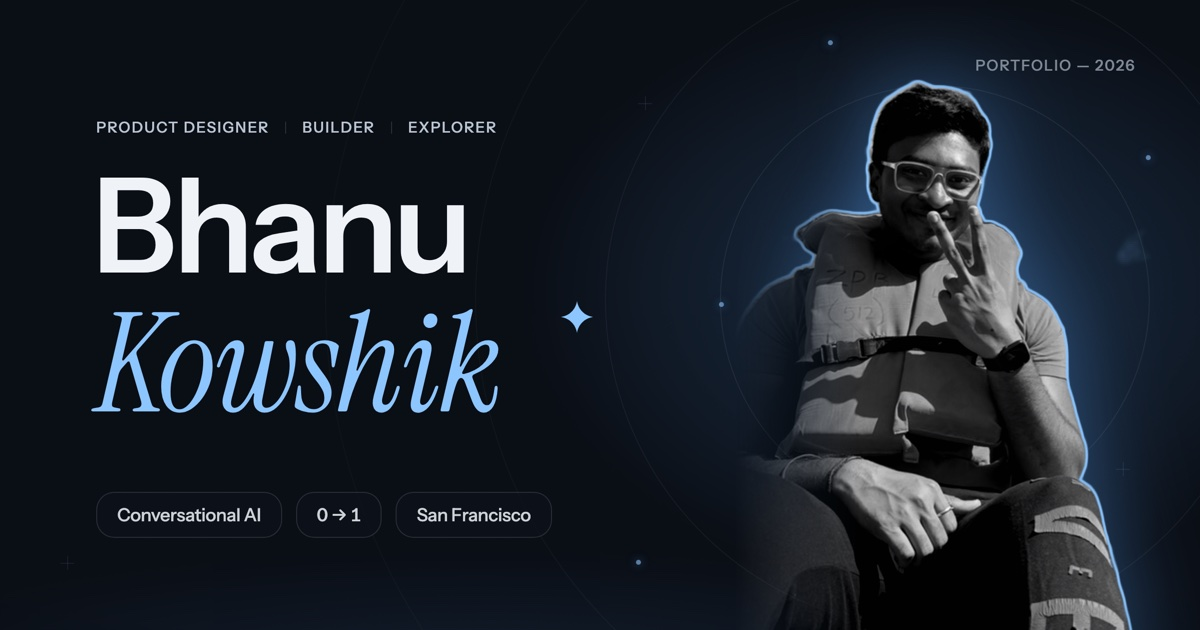
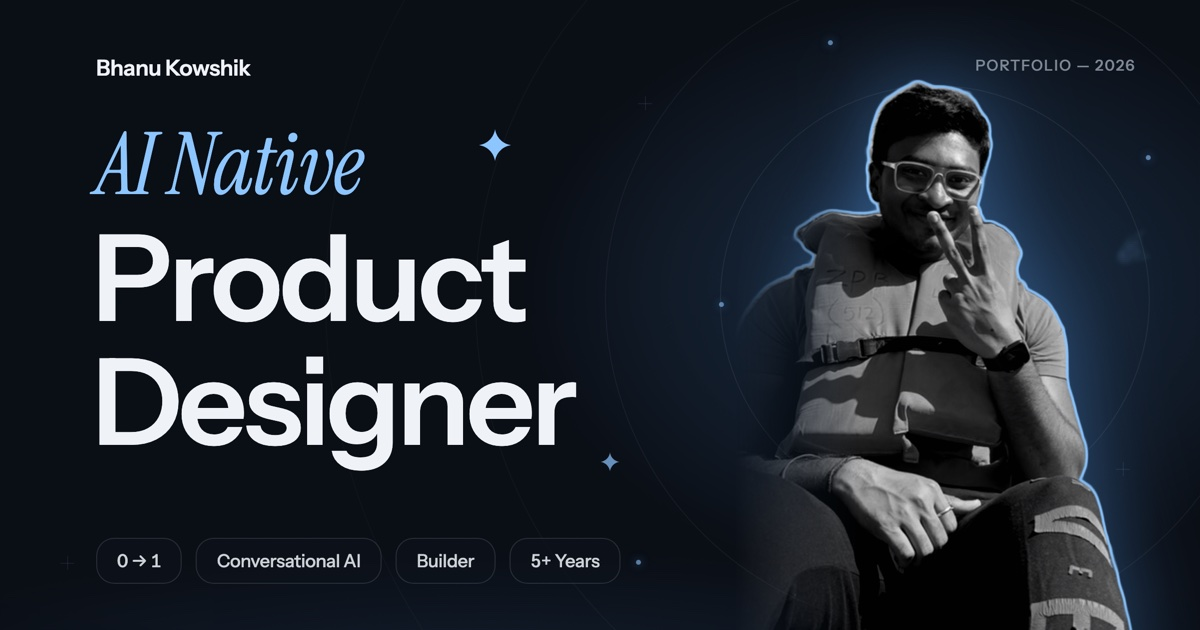
feat(share): og card v5 — the role takes the marquee
Per the brief: 'AI Native' in azure italic serif over 'Product / Designer'
in display sans on the left, the B&W rim-lit portrait on the right, and the
credentials as a bottom chip row — 0→1, Conversational AI, Builder, 5+ Years.
Name moves to a quiet wordmark top-left; twin sparks; alt text updated.

diff --git a/og-image.html b/og-image.html
@@ -74,26 +74,28 @@
     }
 
     /* ── left column ── */
-    .eyebrow {
-      position: absolute; left: 96px; top: 118px;
-      display: inline-flex; align-items: center; gap: 16px;
-      font-size: 15px; font-weight: 520; letter-spacing: .09em;
-      text-transform: uppercase; color: #B9C4D1; white-space: nowrap; z-index: 4;
+    .wordmark {
+      position: absolute; left: 96px; top: 54px; z-index: 4;
+      font-size: 22px; font-weight: 600; letter-spacing: -0.01em; color: #EFF3F8;
     }
-    .eyebrow i { width: 1px; height: 12px; background: rgba(239,243,248,0.14); }
 
+    .n0 {
+      position: absolute; left: 96px; top: 122px; z-index: 4;
+      font-family: 'Instrument Serif', Georgia, serif; font-style: italic; font-weight: 400;
+      font-size: 86px; line-height: 1; letter-spacing: -0.008em; color: #8CC5FF;
+    }
     .n1 {
-      position: absolute; left: 92px; top: 158px; z-index: 4;
-      font-weight: 600; font-size: 132px; line-height: 1.02;
+      position: absolute; left: 92px; top: 218px; z-index: 4;
+      font-weight: 600; font-size: 120px; line-height: 1.0;
       letter-spacing: -0.032em; color: #EFF3F8;
     }
     .n2 {
-      position: absolute; left: 96px; top: 296px; z-index: 4;
-      font-family: 'Instrument Serif', Georgia, serif; font-style: italic; font-weight: 400;
-      font-size: 138px; line-height: 1; letter-spacing: -0.01em; color: #8CC5FF;
+      position: absolute; left: 92px; top: 342px; z-index: 4;
+      font-weight: 600; font-size: 120px; line-height: 1.0;
+      letter-spacing: -0.032em; color: #EFF3F8;
     }
 
-    .chips { position: absolute; left: 96px; top: 492px; display: flex; gap: 14px; z-index: 4; }
+    .chips { position: absolute; left: 96px; top: 538px; display: flex; gap: 14px; z-index: 4; }
     .chip {
       display: inline-flex; align-items: center;
       padding: 11px 20px; border: 1px solid rgba(239,243,248,0.13); border-radius: 18px;
@@ -136,25 +138,30 @@
   <div class="cross" style="left: 1116px; top: 462px;"></div>
   <div class="cross" style="left: 60px; top: 556px;"></div>
 
-  <div class="spark" style="left: 560px; top: 300px;">
+  <div class="spark" style="left: 478px; top: 128px;">
     <svg width="34" height="34" viewBox="0 0 34 34">
+      <path d="M17 1 C18.4 9.5 24.5 15.6 33 17 C24.5 18.4 18.4 24.5 17 33 C15.6 24.5 9.5 18.4 1 17 C9.5 15.6 15.6 9.5 17 1 Z" fill="#8CC5FF"/>
+    </svg>
+  </div>
+  <div class="spark" style="left: 600px; top: 452px; opacity: .7;">
+    <svg width="20" height="20" viewBox="0 0 34 34">
       <path d="M17 1 C18.4 9.5 24.5 15.6 33 17 C24.5 18.4 18.4 24.5 17 33 C15.6 24.5 9.5 18.4 1 17 C9.5 15.6 15.6 9.5 17 1 Z" fill="#8CC5FF"/>
     </svg>
   </div>
 
   <div class="cutwrap"><img class="cut" src="images/bhanu-cutout.png" alt="" /></div>
 
-  <div class="eyebrow">
-    <span>Product Designer</span><i></i><span>Builder</span><i></i><span>Explorer</span>
-  </div>
+  <div class="wordmark">Bhanu Kowshik</div>
 
-  <div class="n1">Bhanu</div>
-  <div class="n2">Kowshik</div>
+  <div class="n0">AI Native</div>
+  <div class="n1">Product</div>
+  <div class="n2">Designer</div>
 
   <div class="chips">
-    <span class="chip">Conversational AI</span>
     <span class="chip">0 → 1</span>
-    <span class="chip">San Francisco</span>
+    <span class="chip">Conversational AI</span>
+    <span class="chip">Builder</span>
+    <span class="chip">5+ Years</span>
   </div>
 
   <div class="year">PORTFOLIO — 2026</div>

diff --git a/index.html b/index.html
@@ -21,7 +21,7 @@
   <meta property="og:image" content="https://bhanukowshik.netlify.app/images/og-image.jpg" />
   <meta property="og:image:width" content="1200" />
   <meta property="og:image:height" content="630" />
-  <meta property="og:image:alt" content="Bhanu Kowshik — Product Designer, Builder, Explorer. Black-and-white portrait beside the name in large type, with tags: Conversational AI, 0 to 1, San Francisco" />
+  <meta property="og:image:alt" content="AI Native Product Designer in large type beside a black-and-white portrait of Bhanu, with tags: 0 to 1, Conversational AI, Builder, 5+ Years" />
   <meta name="twitter:card" content="summary_large_image" />
   <meta name="twitter:title" content="Bhanu Kowshik · AI Native Product Designer" />
   <meta name="twitter:description" content="Portfolio of Bhanu Kowshik — AI Native Product Designer." />

diff --git a/hero-lab.html b/hero-lab.html
@@ -13,7 +13,7 @@
 <meta property="og:image" content="https://bhanu.design/images/og-image.jpg" />
 <meta property="og:image:width" content="1200" />
 <meta property="og:image:height" content="630" />
-<meta property="og:image:alt" content="Bhanu Kowshik — Product Designer, Builder, Explorer. Black-and-white portrait beside the name in large type, with tags: Conversational AI, 0 to 1, San Francisco" />
+<meta property="og:image:alt" content="AI Native Product Designer in large type beside a black-and-white portrait of Bhanu, with tags: 0 to 1, Conversational AI, Builder, 5+ Years" />
 <meta name="twitter:card" content="summary_large_image" />
 <meta name="twitter:image" content="https://bhanu.design/images/og-image.jpg" />
 <link rel="icon" type="image/png" href="images/logo-bk-favicon.png" />
